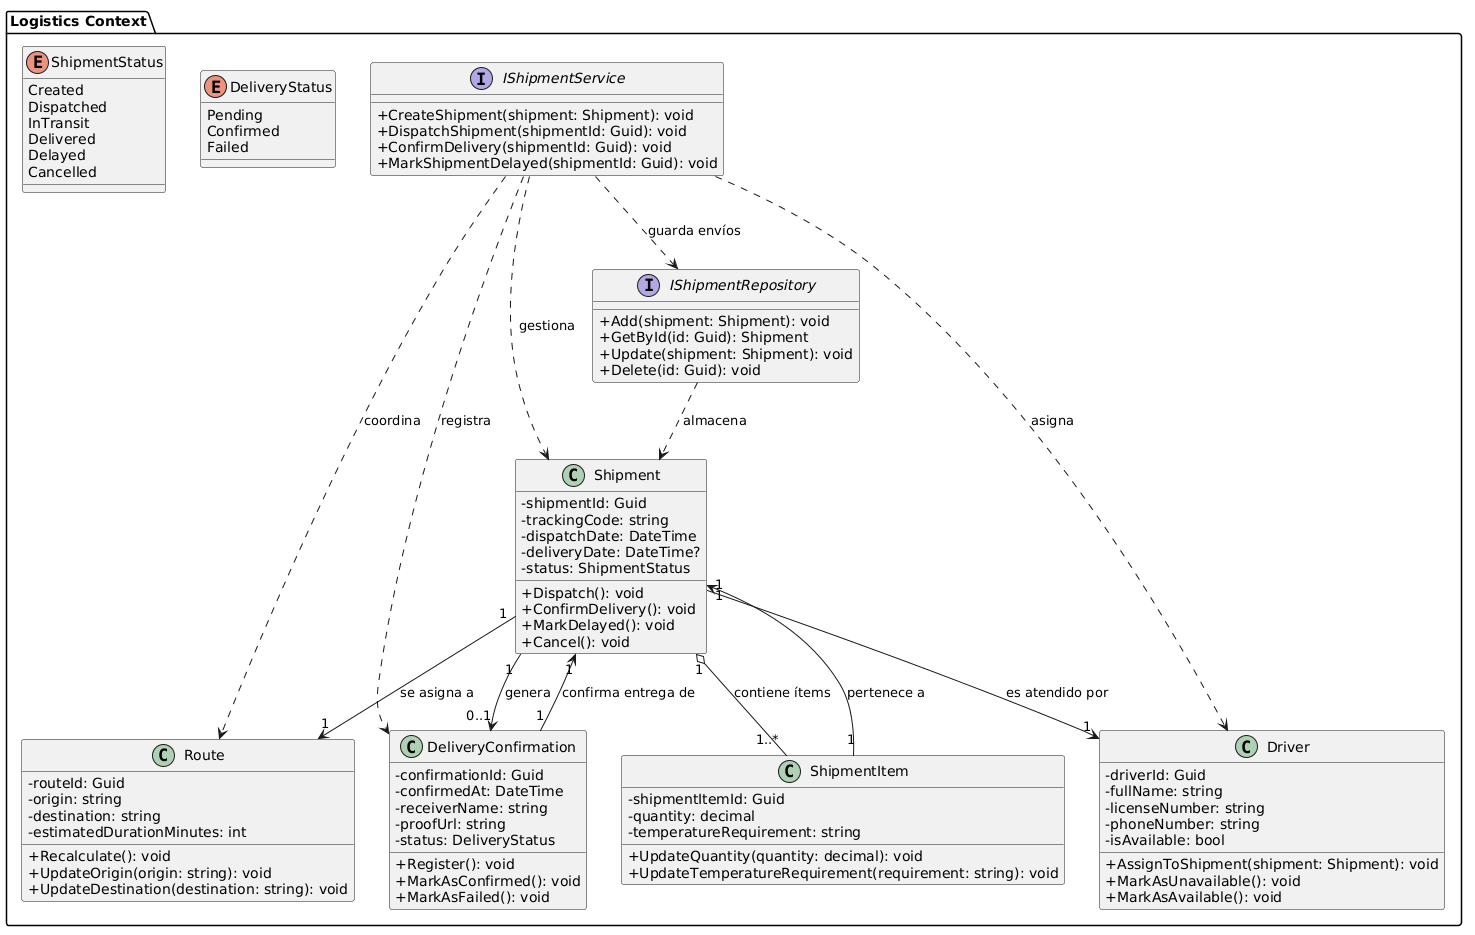
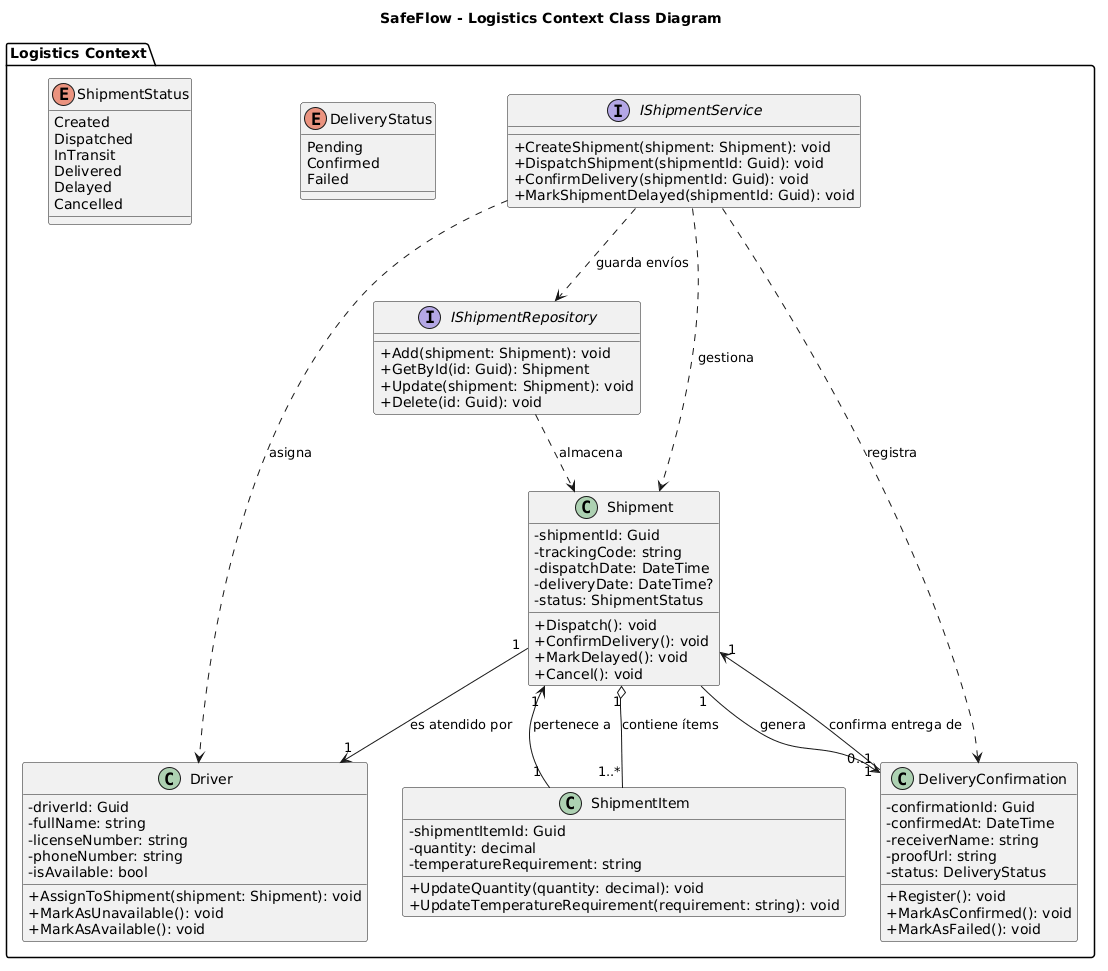
docs: add class dictionary for Monitoring bounded context to README.md

diff --git a/README.md b/README.md
@@ -723,6 +723,9 @@ interfaces y enumeraciones, junto con atributos, métodos, visibilidad, relacion
 <img src="assets/chapter-04/NotificationsContext_ClassDiagram.png">
 
 ### 4.7.2. Class Dictionary
+##### Class Dictionary - Bounded Context: Monitoreo en Tiempo Real
+<img src="assets/chapter-04/Monitoring_ClassDirectory.png">
+
 ## 4.8. Database Design
 ### 4.8.1. Database Diagram
 